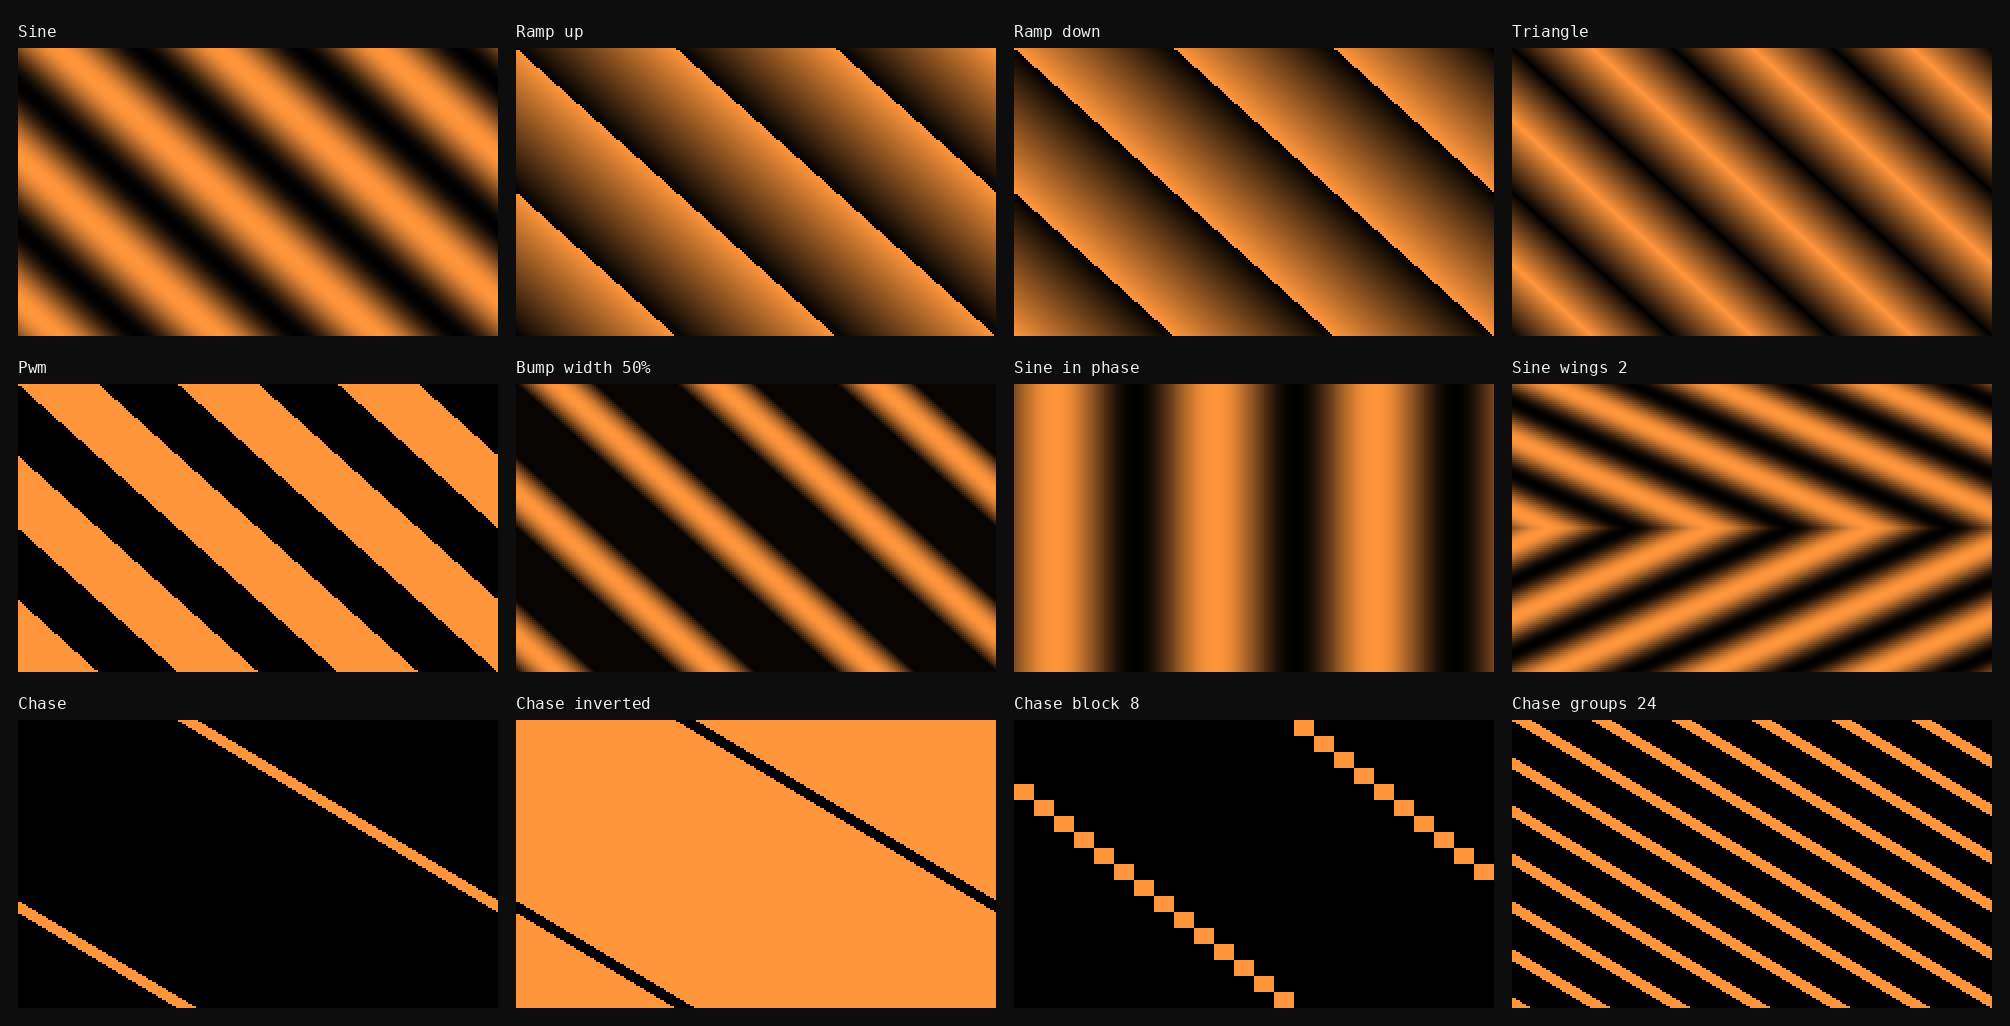
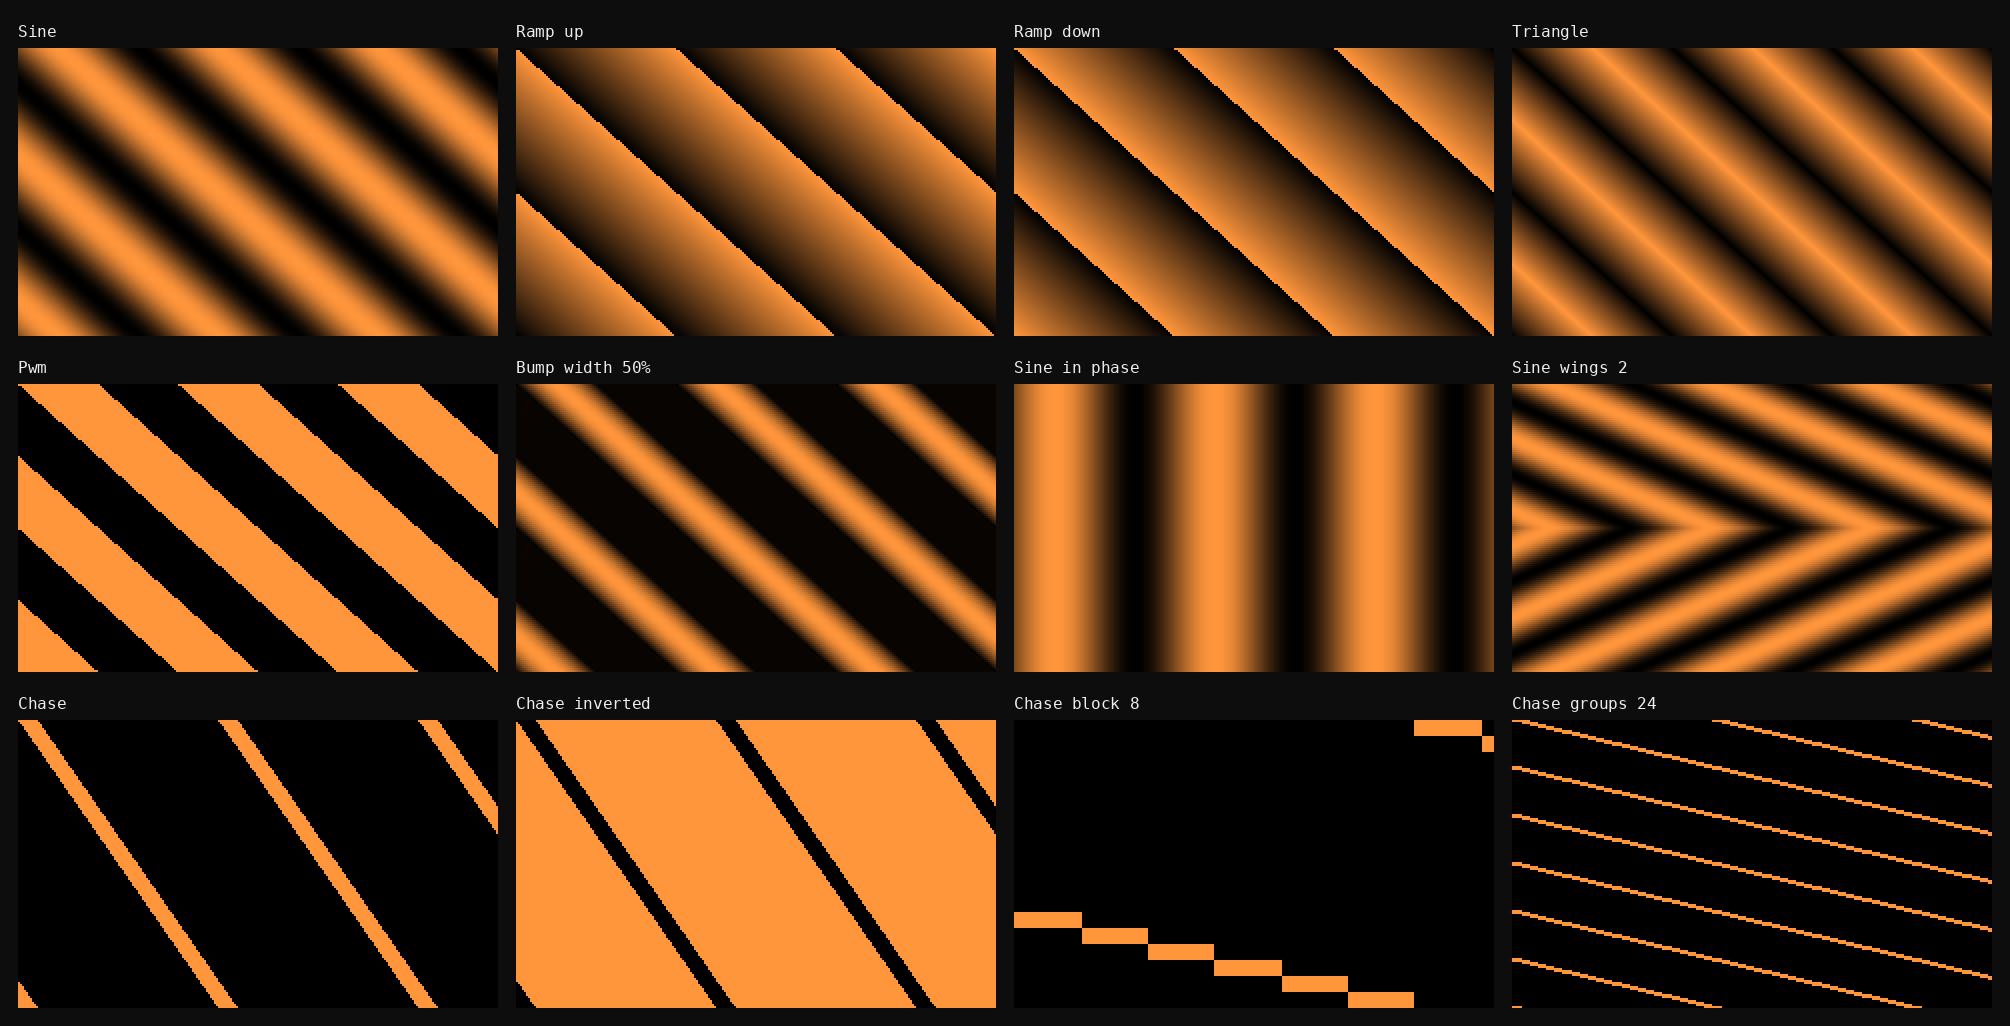
feat(effects): a look is the fixture's — chase, blobs, scanner and stripes scaled to the run
A chase at one speed crossed a 120-LED fixture in four times the time it
crossed a 30-LED one, its head four times thinner: the four generators that
move or size in pixels were absolute, while rainbow, gradient, wave and the
phaser's spread were already relative to the run.

They are now defined for a bar of 60 LEDs (kRefBarPixels) and scaled to the
run they draw on: the same lap in the same time on any length, a head or a
band taking the same share of it (never under one pixel). Looks on the
usual bars do not change; fixtures of other lengths finally show the same
effect at the same tempo, and the editor's preview the same look at 30, 60
or 144 LEDs. The other side, documented: fixtures chained into one run —
chain mode, Block / Groups / Wings — share one lap, as a phaser on a desk
is relative to its selection.

Tests on the bar and across lengths; the gallery and preview.wasm rebuilt.

diff --git a/components/dmx_manager/test/test_dmx_logic.cpp b/components/dmx_manager/test/test_dmx_logic.cpp
@@ -1080,24 +1080,42 @@ static void test_scene_solid_rgbw_white_off() {
 }
 
 static void test_scene_chase_position_and_width() {
-    // 10 px, speed 100 px/s, t=0 → head at 0; width 3 → pixels 0, 9, 8 lit.
-    uint8_t buf[10 * 3] = {};
-    fill_scene_pattern(buf, sizeof(buf), 10, 3, mk_scene(1 /*chase*/, 255, 0, 0, 100, 3), 0);
+    // The reference bar (60 px): speed 100 px/s, t=0 → head at 0; width 3 →
+    // pixels 0, 59, 58 lit.
+    uint8_t buf[60 * 3] = {};
+    fill_scene_pattern(buf, sizeof(buf), 60, 3, mk_scene(1 /*chase*/, 255, 0, 0, 100, 3), 0);
     EXPECT_EQ(buf[0 * 3], 255);
-    EXPECT_EQ(buf[9 * 3], 255);
-    EXPECT_EQ(buf[8 * 3], 255);
+    EXPECT_EQ(buf[59 * 3], 255);
+    EXPECT_EQ(buf[58 * 3], 255);
     EXPECT_EQ(buf[5 * 3], 0);  // background black
 
-    // t=1000 ms → 100 px advanced → head back at 0 (wrap).
-    uint8_t buf2[10 * 3] = {};
-    fill_scene_pattern(buf2, sizeof(buf2), 10, 3, mk_scene(1, 255, 0, 0, 100, 3), 1000);
+    // t=600 ms → 60 px advanced → head back at 0 (wrap).
+    uint8_t buf2[60 * 3] = {};
+    fill_scene_pattern(buf2, sizeof(buf2), 60, 3, mk_scene(1, 255, 0, 0, 100, 3), 600);
     EXPECT_EQ(buf2[0 * 3], 255);
 
     // t=50 ms → 5 px advanced → head at 5.
-    uint8_t buf3[10 * 3] = {};
-    fill_scene_pattern(buf3, sizeof(buf3), 10, 3, mk_scene(1, 255, 0, 0, 100, 3), 50);
+    uint8_t buf3[60 * 3] = {};
+    fill_scene_pattern(buf3, sizeof(buf3), 60, 3, mk_scene(1, 255, 0, 0, 100, 3), 50);
     EXPECT_EQ(buf3[5 * 3], 255);
     EXPECT_EQ(buf3[0 * 3], 0);
+
+    // A run of another length scales the look, not the time: on 30 px the
+    // same 50 ms put the head at 2.5 → 2, the width at 1.5 → 1; on 120 px
+    // at 10, 6 wide. A head is never under one pixel.
+    uint8_t s30[30 * 3] = {}, s120[120 * 3] = {};
+    fill_scene_pattern(s30, sizeof(s30), 30, 3, mk_scene(1, 255, 0, 0, 100, 3), 50);
+    EXPECT_EQ(s30[2 * 3], 255);
+    EXPECT_EQ(s30[1 * 3], 0);
+    fill_scene_pattern(s120, sizeof(s120), 120, 3, mk_scene(1, 255, 0, 0, 100, 3), 50);
+    EXPECT_EQ(s120[10 * 3], 255);
+    EXPECT_EQ(s120[5 * 3], 255);
+    EXPECT_EQ(s120[4 * 3], 0);
+    // ... and the lap takes the same time whatever the length.
+    fill_scene_pattern(s30, sizeof(s30), 30, 3, mk_scene(1, 255, 0, 0, 100, 3), 600);
+    fill_scene_pattern(s120, sizeof(s120), 120, 3, mk_scene(1, 255, 0, 0, 100, 3), 600);
+    EXPECT_EQ(s30[0], 255);
+    EXPECT_EQ(s120[0], 255);
 }
 
 static void test_scene_rainbow_spans_hues() {
@@ -1204,36 +1222,48 @@ static void test_scene_fire_hot_base_dark_tip() {
 
 static void test_scene_scanner_bounces() {
     using namespace pixfrog::config;
+    // The reference bar: 60 px, a leg of 59, speed 100 px/s, a 1-px eye.
     const SceneV3 s = mk_scene(kSceneFxScanner, 0, 255, 0, 100, 1);
-    uint8_t buf[11 * 3];
-    fill_scene_pattern(buf, sizeof(buf), 11, 3, s, 50);  // 5 px along the first leg
+    uint8_t buf[60 * 3];
+    fill_scene_pattern(buf, sizeof(buf), 60, 3, s, 50);  // 5 px along the first leg
     EXPECT_EQ(buf[5 * 3 + 1], 255);
-    EXPECT_TRUE(buf[4 * 3 + 1] > 0);                      // trail behind
-    EXPECT_EQ(buf[6 * 3 + 1], 0);                         // nothing ahead
-    fill_scene_pattern(buf, sizeof(buf), 11, 3, s, 150);  // 15 px: bounced back to 5
+    EXPECT_TRUE(buf[4 * 3 + 1] > 0);                       // trail behind
+    EXPECT_EQ(buf[6 * 3 + 1], 0);                          // nothing ahead
+    fill_scene_pattern(buf, sizeof(buf), 60, 3, s, 1130);  // 113 px: bounced back to 5
     EXPECT_EQ(buf[5 * 3 + 1], 255);
     EXPECT_TRUE(buf[6 * 3 + 1] > 0);  // trail now on the other side
     // Just after the turn the trail is still where the eye came from: it
     // follows the eye through the end instead of vanishing there.
-    fill_scene_pattern(buf, sizeof(buf), 11, 3, s, 110);  // 11 px: back to 9
-    EXPECT_EQ(buf[9 * 3 + 1], 255);
-    EXPECT_TRUE(buf[8 * 3 + 1] > 0 && buf[7 * 3 + 1] > 0);  // passed on the way up
-    EXPECT_TRUE(buf[8 * 3 + 1] > buf[7 * 3 + 1]);           // ... and fading with the path
-    EXPECT_EQ(buf[4 * 3 + 1], 0);
-    fill_scene_pattern(buf, sizeof(buf), 11, 3, s, 20);  // 2 px, first pass: nothing ahead
+    fill_scene_pattern(buf, sizeof(buf), 60, 3, s, 600);  // 60 px: back to 58
+    EXPECT_EQ(buf[58 * 3 + 1], 255);
+    EXPECT_TRUE(buf[57 * 3 + 1] > 0 && buf[56 * 3 + 1] > 0);  // passed on the way up
+    EXPECT_TRUE(buf[57 * 3 + 1] > buf[56 * 3 + 1]);           // ... and fading with the path
+    EXPECT_EQ(buf[50 * 3 + 1], 0);
+    fill_scene_pattern(buf, sizeof(buf), 60, 3, s, 20);  // 2 px, first pass: nothing ahead
     EXPECT_EQ(buf[2 * 3 + 1], 255);
-    EXPECT_EQ(buf[3 * 3 + 1] + buf[10 * 3 + 1], 0);
+    EXPECT_EQ(buf[3 * 3 + 1] + buf[59 * 3 + 1], 0);
+    // A 30-px bar: the same sweep in the same time, on half the pixels.
+    uint8_t half[30 * 3];
+    fill_scene_pattern(half, sizeof(half), 30, 3, s, 600);  // the turn, a leg of 29
+    EXPECT_EQ(half[28 * 3 + 1], 255);
 }
 
 static void test_scene_stripes_alternate_palette() {
     using namespace pixfrog::config;
+    // 2-px bands on the reference bar: 60 px.
     const SceneV3 s = with_color(mk_scene(kSceneFxStripes, 255, 0, 0, 0, 2), 0, 255, 0);
-    uint8_t buf[8 * 3];
-    fill_scene_pattern(buf, sizeof(buf), 8, 3, s, 0);
+    uint8_t buf[60 * 3];
+    fill_scene_pattern(buf, sizeof(buf), 60, 3, s, 0);
     EXPECT_EQ(buf[0 * 3 + 0], 255);
     EXPECT_EQ(buf[1 * 3 + 0], 255);
     EXPECT_EQ(buf[2 * 3 + 1], 255);
     EXPECT_EQ(buf[4 * 3 + 0], 255);
+    // On 120 px the bands are 4 wide: the same number of them on the run.
+    uint8_t wide[120 * 3];
+    fill_scene_pattern(wide, sizeof(wide), 120, 3, s, 0);
+    EXPECT_EQ(wide[3 * 3 + 0], 255);
+    EXPECT_EQ(wide[4 * 3 + 1], 255);
+    EXPECT_EQ(wide[8 * 3 + 0], 255);
 }
 
 static void test_scene_fade_crosses_palette() {
@@ -1309,8 +1339,8 @@ static void test_effect_speed_counts_double() {
     e.num_colors   = 1;
     e.colors[0][0] = 255;
     EXPECT_EQ(effect_rate(e), 510);
-    uint8_t buf[100 * 3];
-    fill_effect_run(buf, sizeof(buf), 100, 3, e, 100);  // 510 px/s for 0.1 s
+    uint8_t buf[60 * 3];
+    fill_effect_run(buf, sizeof(buf), 60, 3, e, 100);  // 510 px/s for 0.1 s
     EXPECT_EQ(buf[51 * 3], 255);
     EXPECT_EQ(buf[50 * 3], 0);
     e.generator = kSceneFxSolid;  // a strobe frequency: its own scale
@@ -1682,23 +1712,23 @@ static void test_matricks_on_an_effect() {
     e.generator    = kSceneFxChase;
     e.num_colors   = 1;
     e.colors[0][0] = 200;
-    e.speed        = 1;  // 2 px/s
+    e.speed        = 1;  // 2 px/s on the bar: 0.4 px/s on a 12-px virtual run
     e.wings        = 2;
-    fill_effect_run(b, sizeof(b), 24, 3, e, 1500);  // head on virtual pixel 3
+    fill_effect_run(b, sizeof(b), 24, 3, e, 7500);  // head on virtual pixel 3
     for (int i = 0; i < 24; ++i)
         EXPECT_EQ(red(i), i == 3 || i == 20 ? 200 : 0);
 
     // Block: the head is three pixels wide and moves by three.
     e.wings = 0;
-    e.block = 3;
-    fill_effect_run(b, sizeof(b), 24, 3, e, 1500);
+    e.block = 3;  // an 8-px virtual run: 3 px in 11.25 s
+    fill_effect_run(b, sizeof(b), 24, 3, e, 11250);
     for (int i = 0; i < 24; ++i)
         EXPECT_EQ(red(i), i >= 9 && i < 12 ? 200 : 0);
 
-    // Groups: the head repeats every 6 pixels.
+    // Groups: the head repeats every 6 pixels (a 6-px run: 3 px in 15 s).
     e.block  = 0;
     e.groups = 6;
-    fill_effect_run(b, sizeof(b), 24, 3, e, 1500);
+    fill_effect_run(b, sizeof(b), 24, 3, e, 15000);
     for (int i = 0; i < 24; ++i)
         EXPECT_EQ(red(i), i % 6 == 3 ? 200 : 0);
 

diff --git a/components/dmx_manager/src/dmx_logic.h b/components/dmx_manager/src/dmx_logic.h
@@ -531,10 +531,27 @@ inline uint32_t bounce256(uint64_t travel256, uint32_t span) {
     return static_cast<uint32_t>(m < leg ? m : 2 * leg - m);
 }
 
+// The generators that move or size in pixels — chase, blobs, scanner,
+// stripes — are defined for a bar of kRefBarPixels LEDs and scaled to the
+// run they draw on: a chase crosses a 30- or a 120-LED fixture in the time
+// it crosses the bar, its head takes the same share of it. A look is the
+// fixture's, not the centimetres' (a phaser on a desk is relative to its
+// selection the same way). A head or a band is never under one pixel.
+constexpr uint32_t kRefBarPixels = 60;
+inline uint32_t ref_px(uint32_t px, uint16_t n) {  // a size, scaled to the run
+    const uint32_t v = px * n / kRefBarPixels;
+    return v ? v : 1;
+}
+inline uint64_t ref_travel(uint64_t gen_px1000, uint16_t n) {  // a distance run, in px
+    return gen_px1000 * n / (kRefBarPixels * 1000u);
+}
+
 // Per-effect meaning of speed/param. param 0 always means the effect's default.
 //   solid    — colour 1; speed = strobe 0..60 Hz: 1/60 s flashes of colour 2
 //              (black when unset), so 0 is steady colour 1 and 255 steady colour 2
 //   chase    — one param-px head per colour (default 1), evenly spaced, speed px/s
+//              (px of the reference bar: see kRefBarPixels, as blobs,
+//              scanner and stripes)
 //   rainbow  — param wheel repeats (default 1), speed rotates; colours unused
 //   blobs    — param soft blobs (default 3, max 16) drifting and bouncing, one
 //              colour each, additive where they meet; speed ≈ px/s
@@ -562,8 +579,8 @@ inline void solid(uint8_t* d, uint16_t n, uint8_t bpp, const Palette& p, uint32_
 inline void chase(uint8_t* d, uint16_t n, uint8_t bpp, const Palette& p, uint8_t param,
                   const FxTime& t) {
     std::memset(d, 0, static_cast<size_t>(n) * bpp);
-    const uint16_t width = param ? param : 1;
-    const uint32_t head  = (t.gen / 1000) % n;
+    const uint16_t width = static_cast<uint16_t>(ref_px(param ? param : 1, n));
+    const uint32_t head  = static_cast<uint32_t>(ref_travel(t.gen, n) % n);
     for (uint8_t k = 0; k < p.n; ++k) {
         const uint32_t h = head + static_cast<uint32_t>(k) * n / p.n;
         for (uint16_t w = 0; w < width && w < n; ++w)
@@ -594,7 +611,7 @@ inline void blobs(uint8_t* d, uint16_t n, uint8_t bpp, const Palette& p, uint8_t
         const uint32_t h = hash32(k * 0x9E3779B9u + 1);
         // 0.6×..1.4× the nominal speed, so blobs overtake and cross each other.
         const uint32_t vel    = 96 + (h & 127);
-        const uint64_t travel = t.gen * vel * 256 / (160 * 1000);
+        const uint64_t travel = ref_travel(t.gen * vel / 160 * 256, n);  // 1/256 px
         const uint32_t pos    = bounce256(travel + (h >> 8) % (2 * span * 256), span);
         const Rgb c           = p.c[k % p.n];
         const uint32_t lo     = pos > r256 ? (pos - r256) / 256 : 0;
@@ -665,10 +682,10 @@ inline void fire(uint8_t* d, uint16_t n, uint8_t bpp, const Palette& p, const Fx
 inline void scanner(uint8_t* d, uint16_t n, uint8_t bpp, const Palette& p, uint8_t param,
                     const FxTime& t) {
     const uint32_t span   = n > 1 ? n - 1u : 1u;
-    const uint32_t width  = param ? param : (n / 20 ? n / 20 : 1);
+    const uint32_t width  = param ? ref_px(param, n) : (n / 20 ? n / 20 : 1);
     const uint32_t half   = width * 128;
     const uint32_t trail  = width * 4 * 256;
-    const uint64_t travel = t.gen * 256 / 1000;
+    const uint64_t travel = ref_travel(t.gen * 256, n);
     const uint64_t leg    = static_cast<uint64_t>(span) * 256;
     const bool forward    = travel % (2 * leg) < leg;
     const uint32_t pos    = bounce256(travel, span);
@@ -719,10 +736,10 @@ inline void wave(uint8_t* d, uint16_t n, uint8_t bpp, const Palette& p, uint8_t 
 
 inline void stripes(uint8_t* d, uint16_t n, uint8_t bpp, const Palette& p, uint8_t param,
                     const FxTime& t) {
-    const uint32_t width  = param ? param : 4;
+    const uint32_t width  = ref_px(param ? param : 4, n);
     const uint32_t bands  = p.n > 1 ? p.n : 2;  // a lone colour alternates with black
     const uint32_t period = width * bands;
-    const uint32_t shift  = static_cast<uint32_t>(t.gen / 1000 % period);
+    const uint32_t shift  = static_cast<uint32_t>(ref_travel(t.gen, n) % period);
     for (uint16_t i = 0; i < n; ++i) {
         const uint32_t band = (i + period - shift) % period / width;
         set_px(d, bpp, i, band < p.n ? p.c[band] : Rgb{ 0, 0, 0 });

diff --git a/tests/harness/test_dmx_manager.cpp b/tests/harness/test_dmx_manager.cpp
@@ -843,7 +843,7 @@ TEST(the_desk_effect_pick_crossfades_over_the_scene_fade) {
 
 TEST(a_speed_change_bends_the_motion_instead_of_jumping_it) {
     reset_show();
-    one_channel(200);
+    one_channel(60);  // the reference bar: a generator's px are its px
     config::Effect e{};
     std::snprintf(e.name, sizeof(e.name), "Chase");
     e.generator    = config::kSceneFxChase;
@@ -860,7 +860,7 @@ TEST(a_speed_change_bends_the_motion_instead_of_jumping_it) {
             if (px[i * 3]) return i;
         return -1;
     };
-    shim::set_time_us(1'000'000'000);  // 1000 s: 100 000 px travelled, a whole number of laps
+    shim::set_time_us(1'200'000'000);  // 1200 s: 120 000 px travelled, a whole number of laps
     uint8_t u[16]{};
     u[0] = u[1] = 0xFF;
     u[4]        = 8;  // scene 1
@@ -871,20 +871,20 @@ TEST(a_speed_change_bends_the_motion_instead_of_jumping_it) {
     u[5] = 217;  // the desk's tempo x5 (10^((217-128)/127)): 251 = 502 units
     ctrl_frame(u, sizeof(u));
     EXPECT_EQ(head(), 10);  // where it was (time × speed: pixel 50)
-    shim::advance_ms(100);
-    EXPECT_EQ(head(), 60);  // 50 px in 100 ms
+    shim::advance_ms(60);
+    EXPECT_EQ(head(), 40);  // 30 px in 60 ms
     u[5] = 0;               // back to the effect's own speed
     ctrl_frame(u, sizeof(u));
-    EXPECT_EQ(head(), 60);
+    EXPECT_EQ(head(), 40);
     shim::advance_ms(100);
-    EXPECT_EQ(head(), 70);
+    EXPECT_EQ(head(), 50);
 
     // Another scene starts on the wall clock, in step with any other output
     // playing that look from scratch.
     EXPECT_TRUE(config::set_scene(1, config::make_scene("Chase 2", 0x01, 0)));
     u[4] = 16;
     ctrl_frame(u, sizeof(u));
-    EXPECT_EQ(head(), (1'000'300 / 10) % 200);
+    EXPECT_EQ(head(), (1'200'260 / 10) % 60);
     reset_show();
     dmx::scene_stop();
 }

diff --git a/docs/SHOW_CONTROL.md b/docs/SHOW_CONTROL.md
@@ -61,6 +61,16 @@ Speed runs 0–255, in steps of two generator units: 2 px/s per step for chase,
 scanner and stripes (up to 510 px/s), 20 °/s for rainbow. Solid is apart: its
 speed is a strobe frequency, 0–60 Hz, where 255 means "steady colour 2".
 
+A look is the fixture's, not the centimetres': the generators that move or
+size in pixels — chase, blobs, scanner, stripes — are defined for a **bar of
+60 LEDs** and scaled to the run they draw on, so a chase crosses a 30- or a
+120-LED fixture in the time it crosses the bar and its head takes the same
+share of it (a head or a band is never under one pixel). Rainbow, gradient,
+wave and the phaser's spread were already relative to the run; fire, twinkle
+and fade run on time alone. The other side of it: fixtures chained into one
+run (the *chain* mode, or Block / Groups / Wings) share one lap, as a phaser
+on a desk is relative to its selection — ride the tempo for a longer run.
+
 A speed change — a desk riding its Speed or phaser Rate channel, an edit of
 the effect — bends the motion: the look carries on from where it is, at the
 new pace, instead of jumping to where it would be had it always run that fast.
